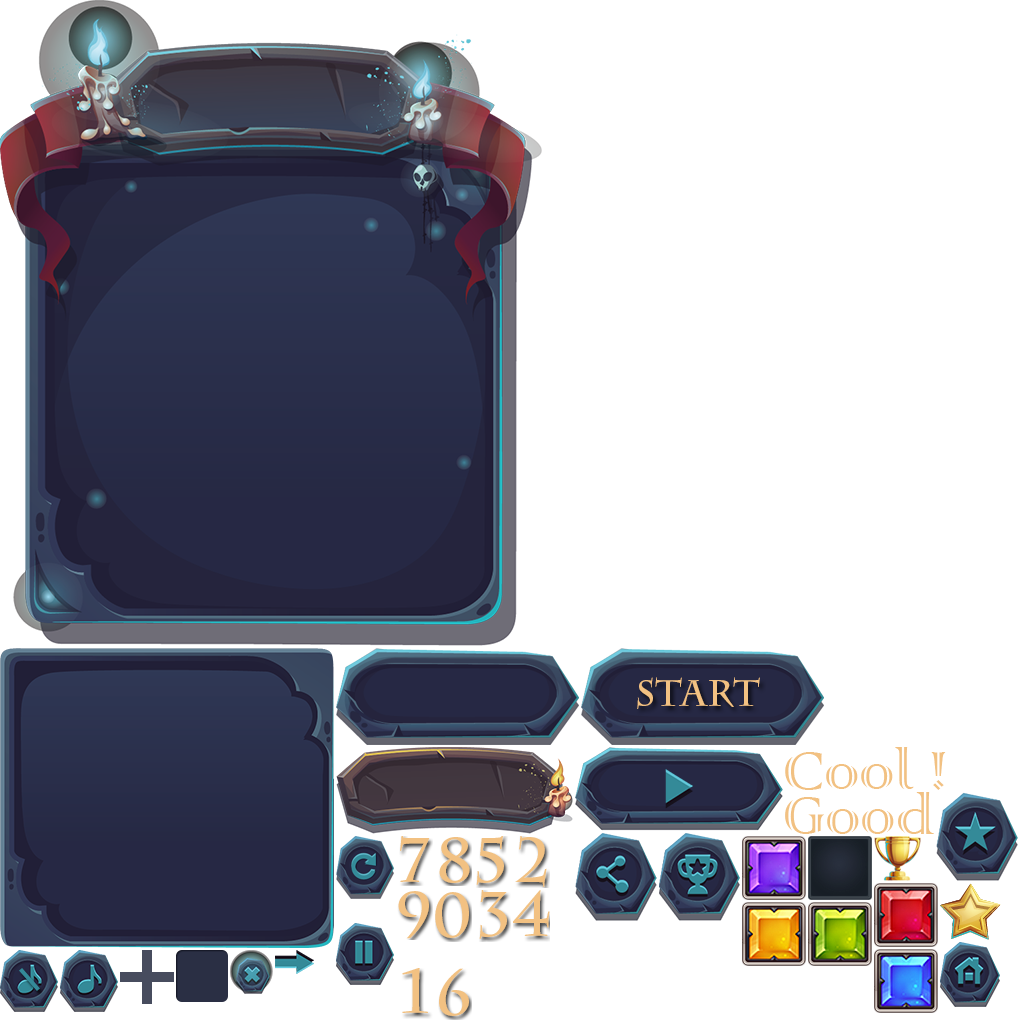
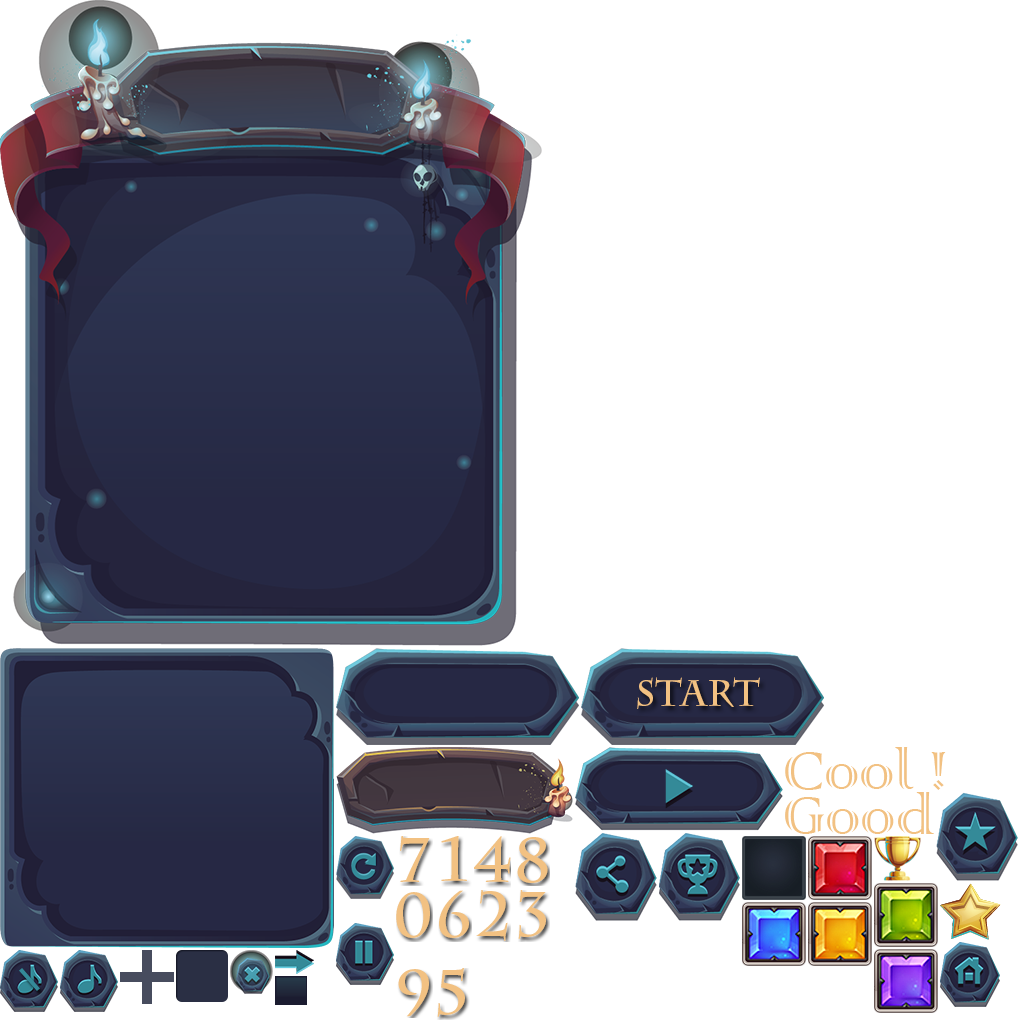
优化

Changed region(s): [[0.7188, 0.8125, 0.9062, 1.0], [0.375, 0.8125, 0.5625, 1.0], [0.25, 0.9375, 0.3125, 1.0]]

diff --git a/bin-debug/game/ui/game/UI_ChangePanel.js b/bin-debug/game/ui/game/UI_ChangePanel.js
@@ -1,0 +1,48 @@
+/** This is an automatically generated class by FairyGUI. Please do not modify it. **/
+var __reflect = (this && this.__reflect) || function (p, c, t) {
+    p.__class__ = c, t ? t.push(c) : t = [c], p.__types__ = p.__types__ ? t.concat(p.__types__) : t;
+};
+var __extends = this && this.__extends || function __extends(t, e) { 
+ function r() { 
+ this.constructor = t;
+}
+for (var i in e) e.hasOwnProperty(i) && (t[i] = e[i]);
+r.prototype = e.prototype, t.prototype = new r();
+};
+var game;
+(function (game) {
+    var UI_ChangePanel = (function (_super) {
+        __extends(UI_ChangePanel, _super);
+        function UI_ChangePanel() {
+            return _super.call(this) || this;
+        }
+        UI_ChangePanel.createInstance = function () {
+            return (fairygui.UIPackage.createObject("game", "ChangePanel"));
+        };
+        UI_ChangePanel.prototype.constructFromXML = function (xml) {
+            _super.prototype.constructFromXML.call(this, xml);
+            this.m_bg = (this.getChildAt(0));
+            this.m_l1 = (this.getChildAt(1));
+            this.m_n16 = (this.getChildAt(2));
+            this.m_l2 = (this.getChildAt(3));
+            this.m_n18 = (this.getChildAt(4));
+            this.m_l3 = (this.getChildAt(5));
+            this.m_n20 = (this.getChildAt(6));
+            this.m_r1 = (this.getChildAt(7));
+            this.m_r2 = (this.getChildAt(8));
+            this.m_r3 = (this.getChildAt(9));
+            this.m_info = (this.getChildAt(10));
+            this.m_btn_ok = (this.getChildAt(11));
+            this.m_n27 = (this.getChildAt(12));
+            this.m_txt_star = (this.getChildAt(13));
+            this.m_add1 = (this.getChildAt(14));
+            this.m_add2 = (this.getChildAt(15));
+            this.m_add3 = (this.getChildAt(16));
+        };
+        UI_ChangePanel.URL = "ui://7cac2uhfoxah1i";
+        return UI_ChangePanel;
+    }(fairygui.GComponent));
+    game.UI_ChangePanel = UI_ChangePanel;
+    __reflect(UI_ChangePanel.prototype, "game.UI_ChangePanel");
+})(game || (game = {}));
+//# sourceMappingURL=UI_ChangePanel.js.map

diff --git a/src/game/ui/game/UI_TopUI.ts b/src/game/ui/game/UI_TopUI.ts
@@ -5,12 +5,13 @@ module game {
 	export class UI_TopUI extends fairygui.GComponent {
 
 		public m_btnctrl:fairygui.Controller;
+		public m_n12:fairygui.GImage;
 		public m_txt_score:fairygui.GTextField;
 		public m_btn_home:UI_Btn_home;
 		public m_btn_sound:UI_Btn_sound;
 		public m_btnrefresh:UI_Btn_refresh;
 		public m_btn_pause:UI_Btn_pause;
-		public m_n10:fairygui.GImage;
+		public m_img_star:fairygui.GImage;
 		public m_txt_star:fairygui.GTextField;
 
 		public static URL:string = "ui://7cac2uhfhlxda";
@@ -27,13 +28,14 @@ module game {
 			super.constructFromXML(xml);
 
 			this.m_btnctrl = this.getControllerAt(0);
-			this.m_txt_score = <fairygui.GTextField><any>(this.getChildAt(0));
-			this.m_btn_home = <UI_Btn_home><any>(this.getChildAt(1));
-			this.m_btn_sound = <UI_Btn_sound><any>(this.getChildAt(2));
-			this.m_btnrefresh = <UI_Btn_refresh><any>(this.getChildAt(3));
-			this.m_btn_pause = <UI_Btn_pause><any>(this.getChildAt(4));
-			this.m_n10 = <fairygui.GImage><any>(this.getChildAt(5));
-			this.m_txt_star = <fairygui.GTextField><any>(this.getChildAt(6));
+			this.m_n12 = <fairygui.GImage><any>(this.getChildAt(0));
+			this.m_txt_score = <fairygui.GTextField><any>(this.getChildAt(1));
+			this.m_btn_home = <UI_Btn_home><any>(this.getChildAt(2));
+			this.m_btn_sound = <UI_Btn_sound><any>(this.getChildAt(3));
+			this.m_btnrefresh = <UI_Btn_refresh><any>(this.getChildAt(4));
+			this.m_btn_pause = <UI_Btn_pause><any>(this.getChildAt(5));
+			this.m_img_star = <fairygui.GImage><any>(this.getChildAt(6));
+			this.m_txt_star = <fairygui.GTextField><any>(this.getChildAt(7));
 		}
 	}
 }

diff --git a/bin-debug/game/ui/game/UI_Alert.js b/bin-debug/game/ui/game/UI_Alert.js
@@ -1,0 +1,36 @@
+/** This is an automatically generated class by FairyGUI. Please do not modify it. **/
+var __reflect = (this && this.__reflect) || function (p, c, t) {
+    p.__class__ = c, t ? t.push(c) : t = [c], p.__types__ = p.__types__ ? t.concat(p.__types__) : t;
+};
+var __extends = this && this.__extends || function __extends(t, e) { 
+ function r() { 
+ this.constructor = t;
+}
+for (var i in e) e.hasOwnProperty(i) && (t[i] = e[i]);
+r.prototype = e.prototype, t.prototype = new r();
+};
+var game;
+(function (game) {
+    var UI_Alert = (function (_super) {
+        __extends(UI_Alert, _super);
+        function UI_Alert() {
+            return _super.call(this) || this;
+        }
+        UI_Alert.createInstance = function () {
+            return (fairygui.UIPackage.createObject("game", "Alert"));
+        };
+        UI_Alert.prototype.constructFromXML = function (xml) {
+            _super.prototype.constructFromXML.call(this, xml);
+            this.m_c1 = this.getControllerAt(0);
+            this.m_n0 = (this.getChildAt(0));
+            this.m_btn_ok = (this.getChildAt(1));
+            this.m_btn_ok_2 = (this.getChildAt(2));
+            this.m_txt_info = (this.getChildAt(3));
+        };
+        UI_Alert.URL = "ui://7cac2uhfoxah1w";
+        return UI_Alert;
+    }(fairygui.GComponent));
+    game.UI_Alert = UI_Alert;
+    __reflect(UI_Alert.prototype, "game.UI_Alert");
+})(game || (game = {}));
+//# sourceMappingURL=UI_Alert.js.map

diff --git a/bin-debug/game/ui/game/UI_Btn_normal.js b/bin-debug/game/ui/game/UI_Btn_normal.js
@@ -1,0 +1,34 @@
+/** This is an automatically generated class by FairyGUI. Please do not modify it. **/
+var __reflect = (this && this.__reflect) || function (p, c, t) {
+    p.__class__ = c, t ? t.push(c) : t = [c], p.__types__ = p.__types__ ? t.concat(p.__types__) : t;
+};
+var __extends = this && this.__extends || function __extends(t, e) { 
+ function r() { 
+ this.constructor = t;
+}
+for (var i in e) e.hasOwnProperty(i) && (t[i] = e[i]);
+r.prototype = e.prototype, t.prototype = new r();
+};
+var game;
+(function (game) {
+    var UI_Btn_normal = (function (_super) {
+        __extends(UI_Btn_normal, _super);
+        function UI_Btn_normal() {
+            return _super.call(this) || this;
+        }
+        UI_Btn_normal.createInstance = function () {
+            return (fairygui.UIPackage.createObject("game", "Btn_normal"));
+        };
+        UI_Btn_normal.prototype.constructFromXML = function (xml) {
+            _super.prototype.constructFromXML.call(this, xml);
+            this.m_button = this.getControllerAt(0);
+            this.m_n1 = (this.getChildAt(0));
+            this.m_title = (this.getChildAt(1));
+        };
+        UI_Btn_normal.URL = "ui://7cac2uhfoxah1t";
+        return UI_Btn_normal;
+    }(fairygui.GButton));
+    game.UI_Btn_normal = UI_Btn_normal;
+    __reflect(UI_Btn_normal.prototype, "game.UI_Btn_normal");
+})(game || (game = {}));
+//# sourceMappingURL=UI_Btn_normal.js.map

diff --git a/bin-debug/game/ui/game/UI_popBg.js b/bin-debug/game/ui/game/UI_popBg.js
@@ -1,0 +1,35 @@
+/** This is an automatically generated class by FairyGUI. Please do not modify it. **/
+var __reflect = (this && this.__reflect) || function (p, c, t) {
+    p.__class__ = c, t ? t.push(c) : t = [c], p.__types__ = p.__types__ ? t.concat(p.__types__) : t;
+};
+var __extends = this && this.__extends || function __extends(t, e) { 
+ function r() { 
+ this.constructor = t;
+}
+for (var i in e) e.hasOwnProperty(i) && (t[i] = e[i]);
+r.prototype = e.prototype, t.prototype = new r();
+};
+var game;
+(function (game) {
+    var UI_popBg = (function (_super) {
+        __extends(UI_popBg, _super);
+        function UI_popBg() {
+            return _super.call(this) || this;
+        }
+        UI_popBg.createInstance = function () {
+            return (fairygui.UIPackage.createObject("game", "popBg"));
+        };
+        UI_popBg.prototype.constructFromXML = function (xml) {
+            _super.prototype.constructFromXML.call(this, xml);
+            this.m_n3 = (this.getChildAt(0));
+            this.m_n4 = (this.getChildAt(1));
+            this.m_btn_close = (this.getChildAt(2));
+            this.m_title = (this.getChildAt(3));
+        };
+        UI_popBg.URL = "ui://7cac2uhfoxah1l";
+        return UI_popBg;
+    }(fairygui.GComponent));
+    game.UI_popBg = UI_popBg;
+    __reflect(UI_popBg.prototype, "game.UI_popBg");
+})(game || (game = {}));
+//# sourceMappingURL=UI_popBg.js.map

diff --git a/bin-debug/game/ui/game/UI_Btn_close.js b/bin-debug/game/ui/game/UI_Btn_close.js
@@ -1,0 +1,33 @@
+/** This is an automatically generated class by FairyGUI. Please do not modify it. **/
+var __reflect = (this && this.__reflect) || function (p, c, t) {
+    p.__class__ = c, t ? t.push(c) : t = [c], p.__types__ = p.__types__ ? t.concat(p.__types__) : t;
+};
+var __extends = this && this.__extends || function __extends(t, e) { 
+ function r() { 
+ this.constructor = t;
+}
+for (var i in e) e.hasOwnProperty(i) && (t[i] = e[i]);
+r.prototype = e.prototype, t.prototype = new r();
+};
+var game;
+(function (game) {
+    var UI_Btn_close = (function (_super) {
+        __extends(UI_Btn_close, _super);
+        function UI_Btn_close() {
+            return _super.call(this) || this;
+        }
+        UI_Btn_close.createInstance = function () {
+            return (fairygui.UIPackage.createObject("game", "Btn_close"));
+        };
+        UI_Btn_close.prototype.constructFromXML = function (xml) {
+            _super.prototype.constructFromXML.call(this, xml);
+            this.m_button = this.getControllerAt(0);
+            this.m_n1 = (this.getChildAt(0));
+        };
+        UI_Btn_close.URL = "ui://7cac2uhfoxah1o";
+        return UI_Btn_close;
+    }(fairygui.GButton));
+    game.UI_Btn_close = UI_Btn_close;
+    __reflect(UI_Btn_close.prototype, "game.UI_Btn_close");
+})(game || (game = {}));
+//# sourceMappingURL=UI_Btn_close.js.map

diff --git a/bin-debug/game/ui/game/gameBinder.js b/bin-debug/game/ui/game/gameBinder.js
@@ -11,6 +11,11 @@ var game;
             fairygui.UIObjectFactory.setPackageItemExtension(game.UI_GameOverPanel.URL, game.UI_GameOverPanel);
             fairygui.UIObjectFactory.setPackageItemExtension(game.UI_BtnRestart.URL, game.UI_BtnRestart);
             fairygui.UIObjectFactory.setPackageItemExtension(game.UI_TopUI.URL, game.UI_TopUI);
+            fairygui.UIObjectFactory.setPackageItemExtension(game.UI_ChangePanel.URL, game.UI_ChangePanel);
+            fairygui.UIObjectFactory.setPackageItemExtension(game.UI_popBg.URL, game.UI_popBg);
+            fairygui.UIObjectFactory.setPackageItemExtension(game.UI_Btn_close.URL, game.UI_Btn_close);
+            fairygui.UIObjectFactory.setPackageItemExtension(game.UI_Btn_normal.URL, game.UI_Btn_normal);
+            fairygui.UIObjectFactory.setPackageItemExtension(game.UI_Alert.URL, game.UI_Alert);
             fairygui.UIObjectFactory.setPackageItemExtension(game.UI_Good.URL, game.UI_Good);
             fairygui.UIObjectFactory.setPackageItemExtension(game.UI_Cool.URL, game.UI_Cool);
             fairygui.UIObjectFactory.setPackageItemExtension(game.UI_Btn_refresh.URL, game.UI_Btn_refresh);

diff --git a/bin-debug/game/ui/game/UI_TopUI.js b/bin-debug/game/ui/game/UI_TopUI.js
@@ -22,11 +22,14 @@ var game;
         UI_TopUI.prototype.constructFromXML = function (xml) {
             _super.prototype.constructFromXML.call(this, xml);
             this.m_btnctrl = this.getControllerAt(0);
-            this.m_txt_score = (this.getChildAt(0));
-            this.m_btn_home = (this.getChildAt(1));
-            this.m_btn_sound = (this.getChildAt(2));
-            this.m_btnrefresh = (this.getChildAt(3));
-            this.m_btn_pause = (this.getChildAt(4));
+            this.m_n12 = (this.getChildAt(0));
+            this.m_txt_score = (this.getChildAt(1));
+            this.m_btn_home = (this.getChildAt(2));
+            this.m_btn_sound = (this.getChildAt(3));
+            this.m_btnrefresh = (this.getChildAt(4));
+            this.m_btn_pause = (this.getChildAt(5));
+            this.m_img_star = (this.getChildAt(6));
+            this.m_txt_star = (this.getChildAt(7));
         };
         UI_TopUI.URL = "ui://7cac2uhfhlxda";
         return UI_TopUI;

diff --git a/bin-debug/game/Game.js b/bin-debug/game/Game.js
@@ -263,7 +263,7 @@ var Game = (function (_super) {
         this["clickarea" + pos].height = h;
         this["clickarea" + pos].anchorOffsetX = w / 2;
         this["clickarea" + pos].anchorOffsetY = h / 2;
-        this["clickarea" + pos].alpha = 0.5;
+        this["clickarea" + pos].alpha = 0;
         this["clickarea" + pos].touchEnabled = true;
         this["clickarea" + pos].x = -w / 2 + (w + 10) * pos;
         this["clickarea" + pos].y = App.StageUtils.getStage().stageHeight - GameConsts.GAME_CLICK_AREA / 2;

diff --git a/src/game/Game.ts b/src/game/Game.ts
@@ -277,7 +277,7 @@ class Game extends Module
         this["clickarea"+pos].height=h;
         this["clickarea"+pos].anchorOffsetX=w/2;
         this["clickarea"+pos].anchorOffsetY=h/2;
-        this["clickarea"+pos].alpha=0.5;
+        this["clickarea"+pos].alpha=0;
         this["clickarea"+pos].touchEnabled=true;
         this["clickarea"+pos].x = -w/2+(w+10)*pos;
         this["clickarea"+pos].y=App.StageUtils.getStage().stageHeight-GameConsts.GAME_CLICK_AREA/2;
